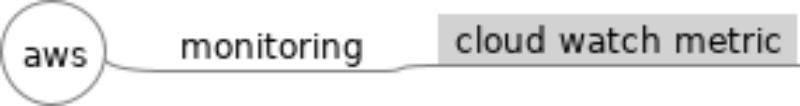
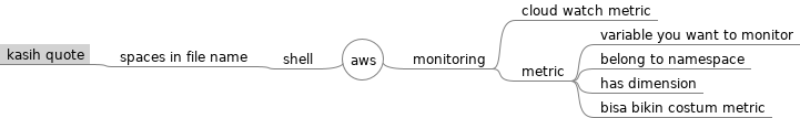
update lecture notes

diff --git a/aws.mm b/aws.mm
@@ -3,6 +3,17 @@
 <node CREATED="1673708168963" ID="ID_1994154447" MODIFIED="1673708175403" TEXT="aws">
 <node CREATED="1673708175848" ID="ID_1475329947" MODIFIED="1673708178865" POSITION="right" TEXT="monitoring">
 <node CREATED="1673708179114" ID="ID_1405897692" MODIFIED="1673708184655" TEXT="cloud watch metric"/>
+<node CREATED="1673708235242" ID="ID_1172262280" MODIFIED="1673708237331" TEXT="metric">
+<node CREATED="1673708237557" ID="ID_227307631" MODIFIED="1673708245479" TEXT="variable you want to monitor"/>
+<node CREATED="1673708280007" ID="ID_520353798" MODIFIED="1673708284297" TEXT="belong to namespace"/>
+<node CREATED="1673708284551" ID="ID_850548262" MODIFIED="1673708290552" TEXT="has dimension"/>
+<node CREATED="1673708407751" ID="ID_765246431" MODIFIED="1673708415891" TEXT="bisa bikin costum metric"/>
+</node>
+</node>
+<node CREATED="1673800199948" ID="ID_1682413804" MODIFIED="1673800202918" POSITION="left" TEXT="shell">
+<node CREATED="1673800203180" ID="ID_1723737148" MODIFIED="1673800208060" TEXT="spaces in file name">
+<node CREATED="1673800208341" ID="ID_1019626588" MODIFIED="1673800210765" TEXT="kasih quote"/>
+</node>
 </node>
 </node>
 </map>
